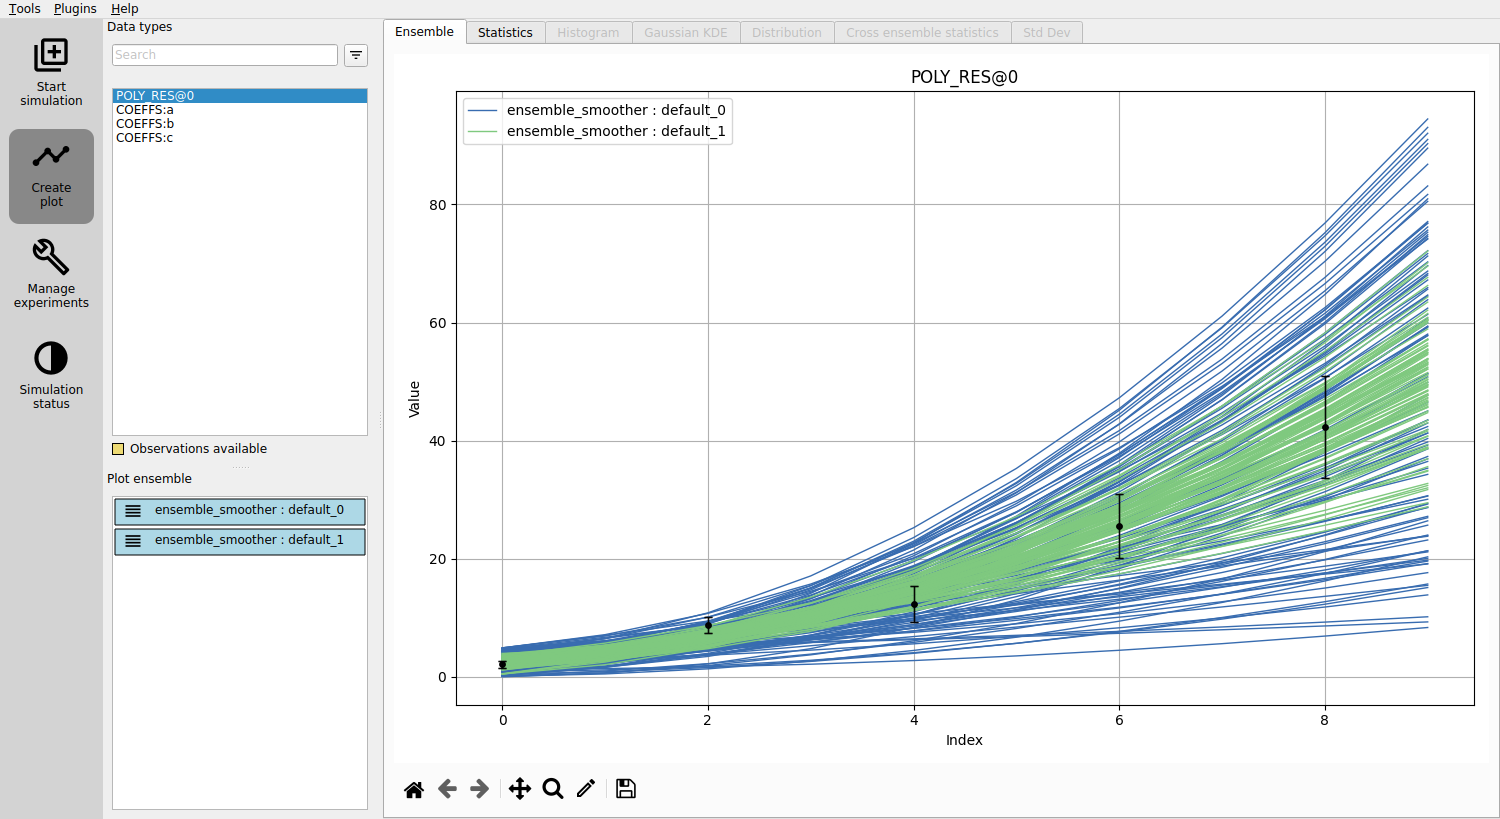
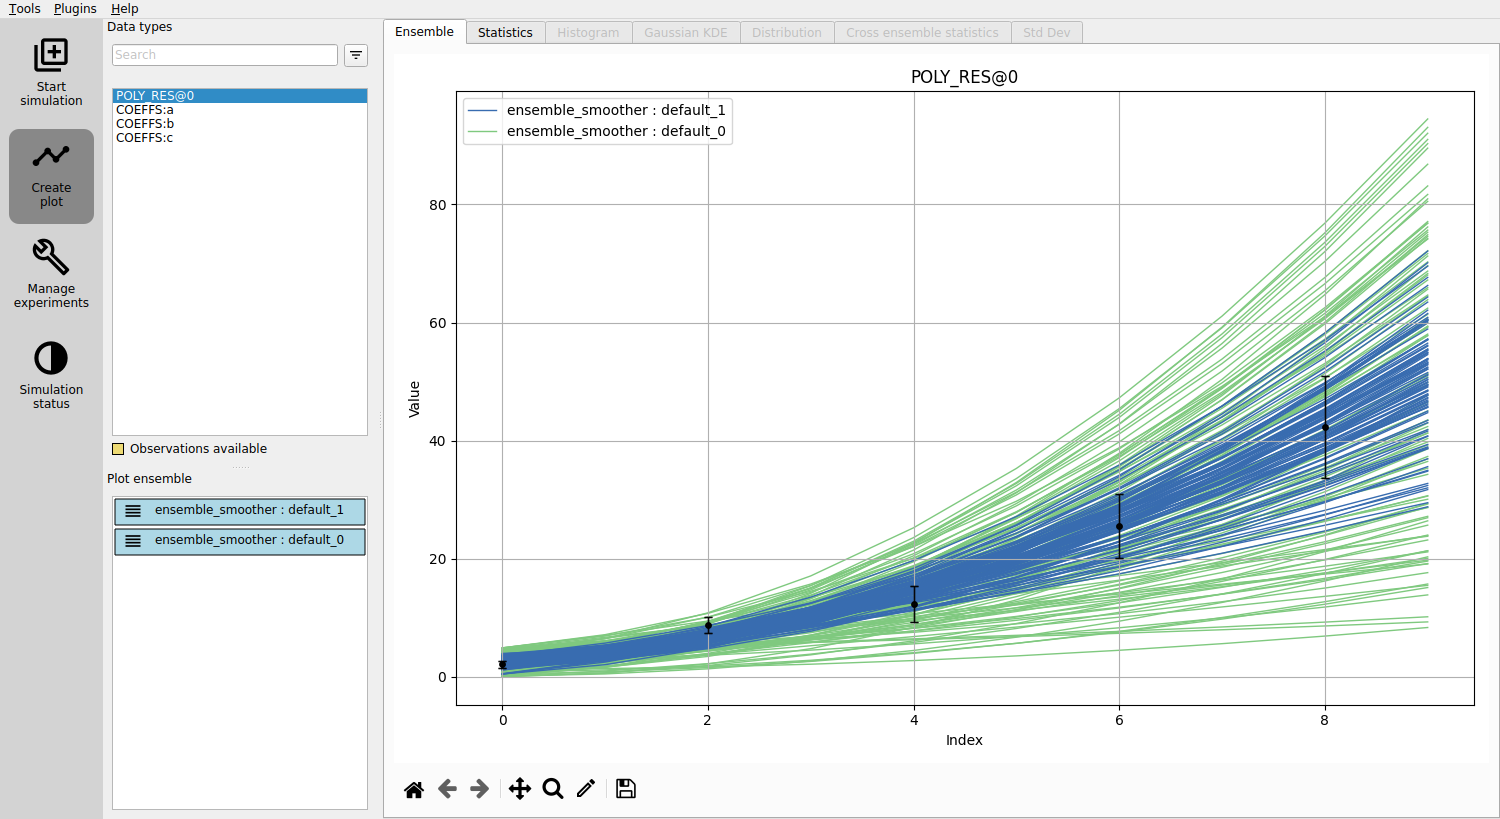
Remove swap order in poly example screenshot
No longer needed after commit 53058716fa1c5aca6dd62e212e9d08d3c326e6d1

Changed region(s): [[0.3373, 0.1526, 0.9507, 0.8242]]

diff --git a/tests/ert/ui_tests/gui/test_docs_screenshots.py b/tests/ert/ui_tests/gui/test_docs_screenshots.py
@@ -398,10 +398,6 @@ def test_that_poly_new_with_observations_screenshots_are_up_to_date(
 
         dndlist = ensemble_selector_widget._EnsembleSelectionWidget__dndlist
 
-        # Swap plot order to better illustrate example
-        item = dndlist.takeItem(0)
-        dndlist.insertItem(1, item)
-
         for index in range(dndlist.count()):
             item = dndlist.item(index)
             if not item.data(Qt.ItemDataRole.CheckStateRole):
@@ -411,10 +407,6 @@ def test_that_poly_new_with_observations_screenshots_are_up_to_date(
         gui_evaluator.compare_img_with_gui("plot_obs.png", PLOT_OBS_PNG_THRESHOLD)
 
         data_type_widget = wait_for_child(gui, qtbot, DataTypeKeysWidget, "Data types")
-
-        # Swap back plot order
-        item = dndlist.takeItem(0)
-        dndlist.insertItem(1, item)
 
         for index, img, threshold in [
             (1, "coeff_a.png", COEFF_A_PNG_THRESHOLD),
